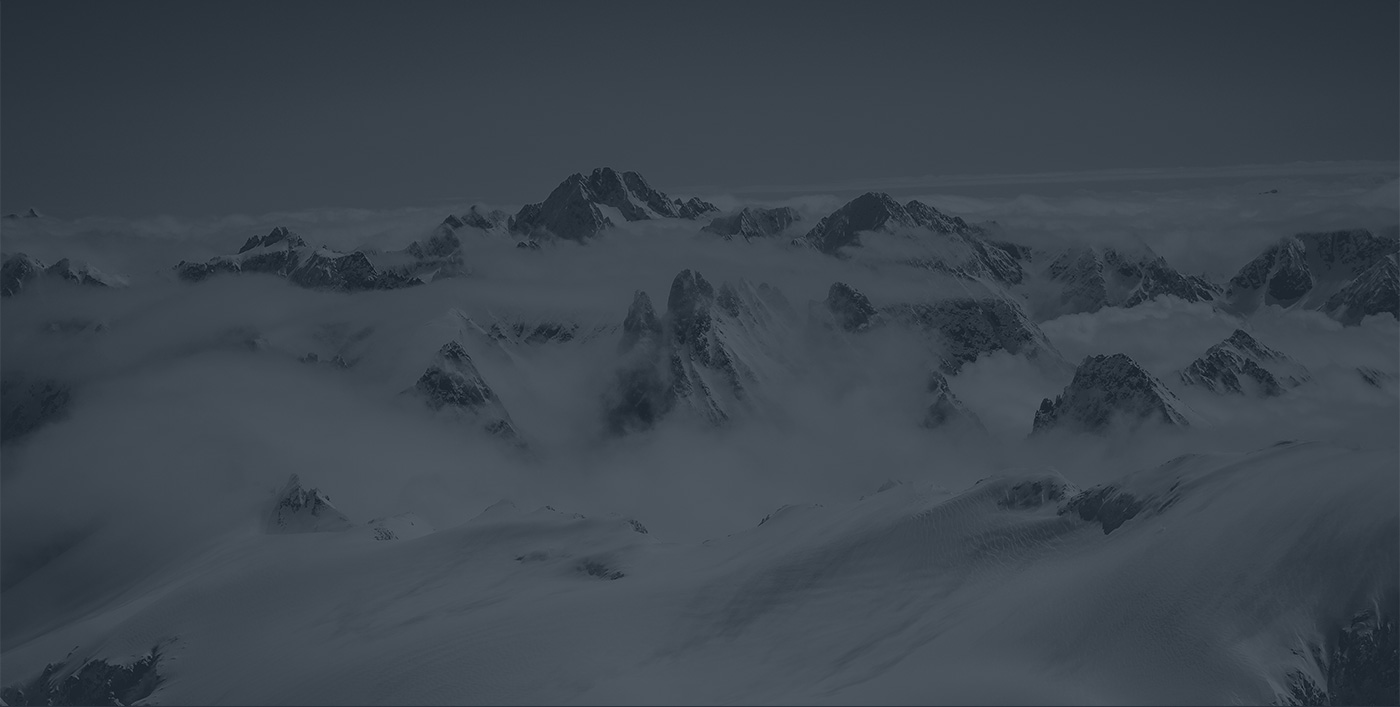
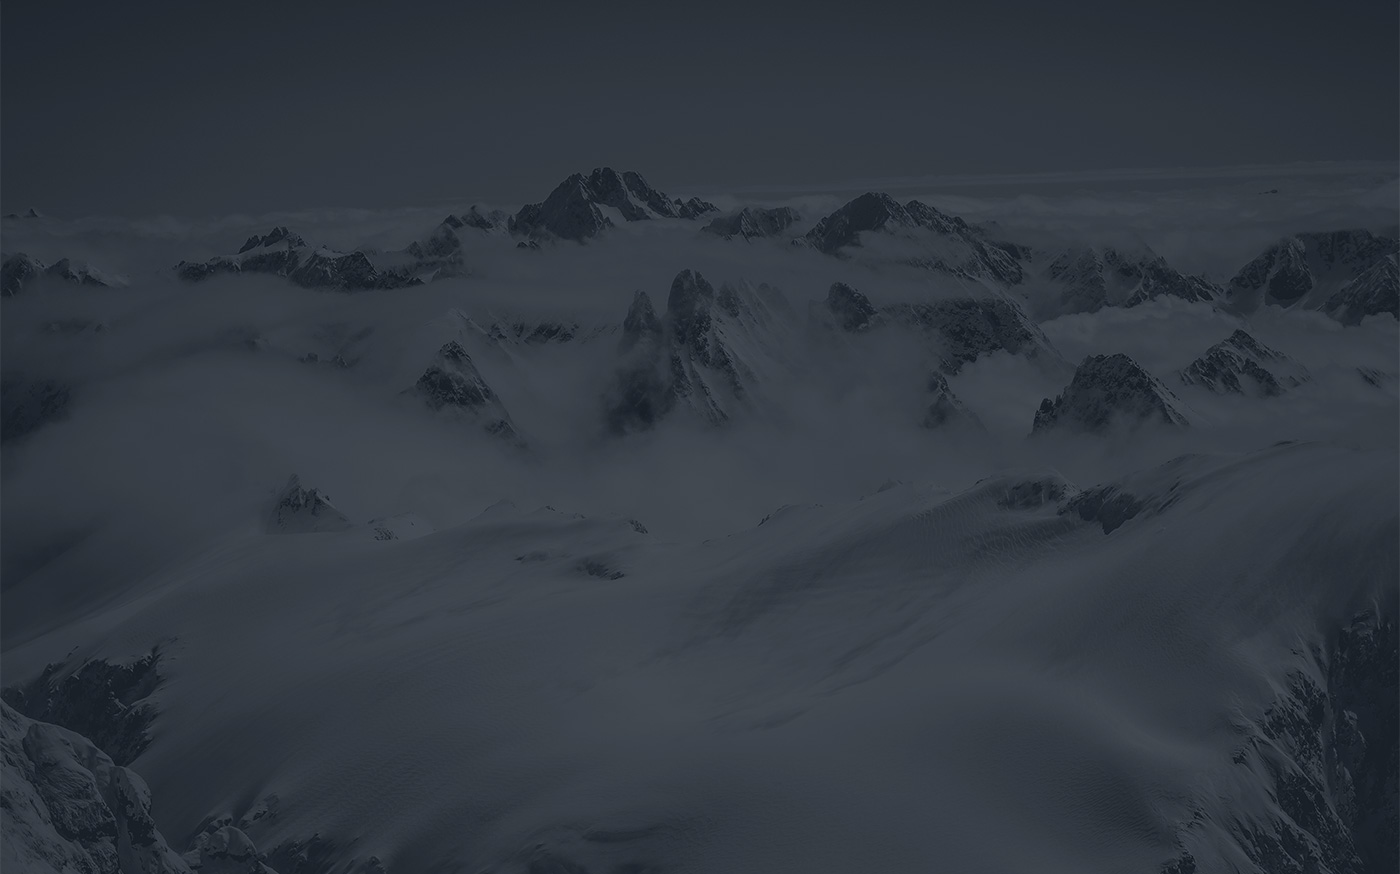
darken photos

diff --git a/resources/views/app.blade.php b/resources/views/app.blade.php
@@ -516,7 +516,7 @@
 			imageSrc: './img/intro.jpg',
 			position: 'center top',
 			naturalWidth: 1400,
-			naturalHeight: 707,
+			naturalHeight: 874,
 			speed: 0.5
 		});
 
@@ -531,7 +531,7 @@
 			imageSrc: './img/mminvitational.jpg',
 			position: 'center top',
 			naturalWidth: 1400,
-			naturalHeight: 758,
+			naturalHeight: 874,
 			speed: 0.05
 		});
 
